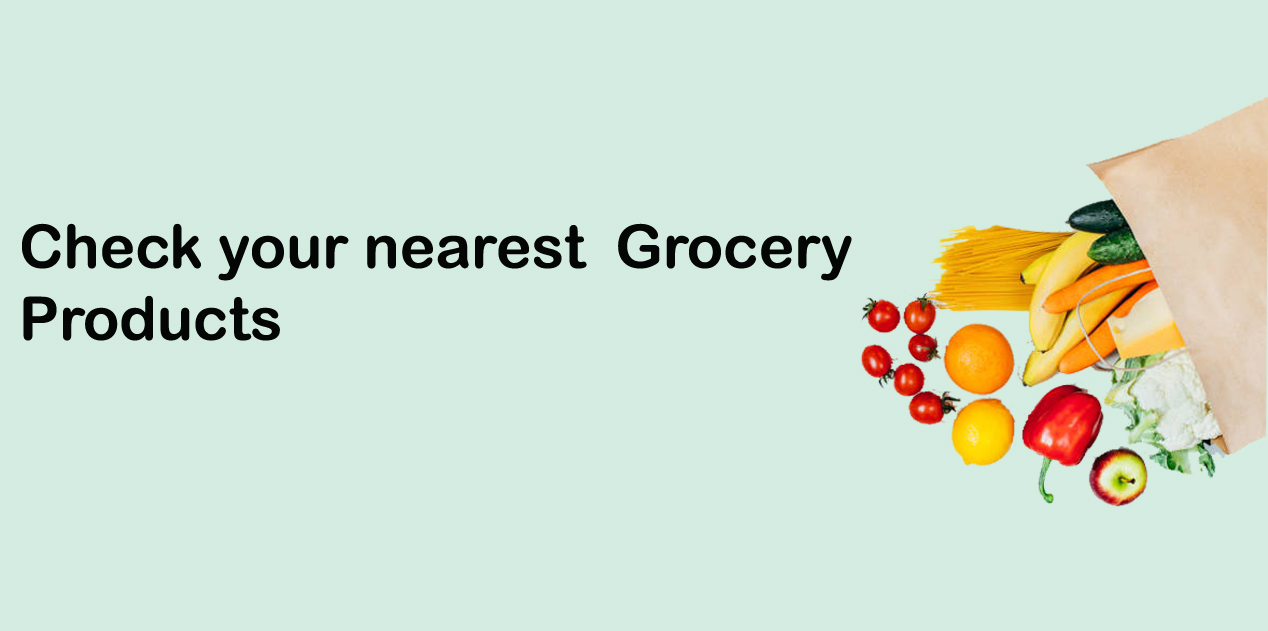
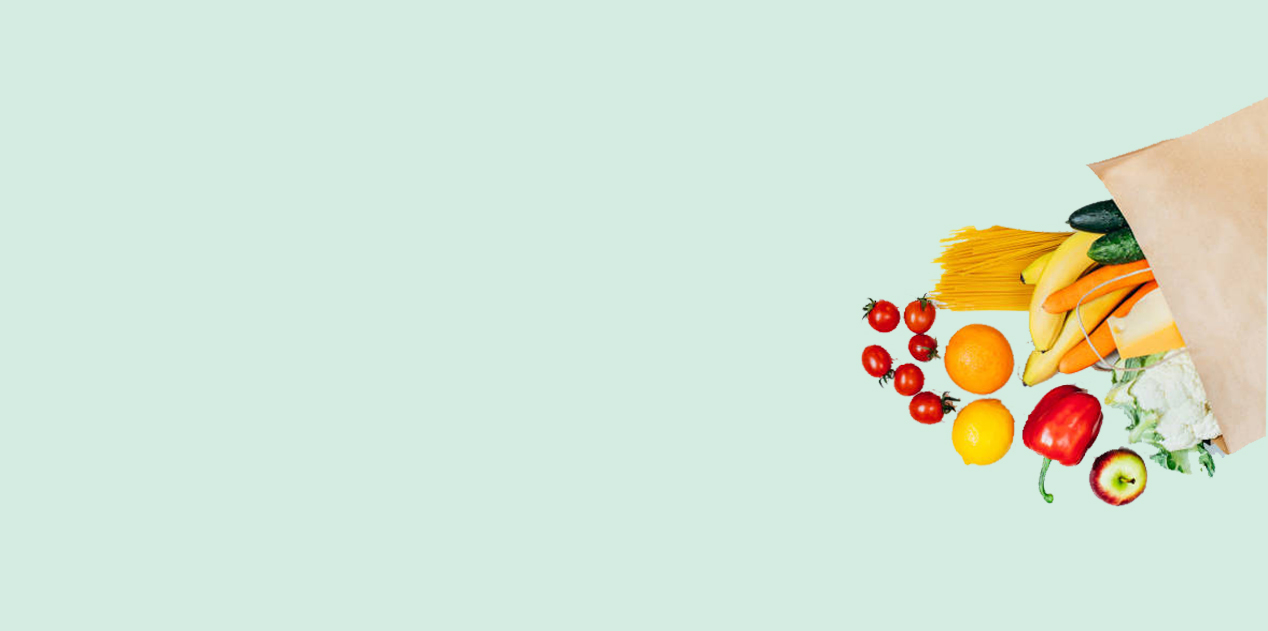
frontend : hero-layout comlete

Changed region(s): [[0.0, 0.3312, 0.6767, 0.4517], [0.0, 0.4517, 0.2461, 0.542]]

diff --git a/frontend/src/components/hero/hero.css b/frontend/src/components/hero/hero.css
@@ -1,0 +1,55 @@
+.hero-container{
+    margin-top: 1rem;
+    position: relative;
+}
+.hero-img-container{
+    position: relative;
+}
+.hero-img{
+    border-radius: 10px;
+    position: absolute;
+    z-index: -10;
+    width: 100%;
+    height:36rem;
+}
+
+.hero-img-content{
+    position: absolute;
+    z-index: -10;
+    top: 10rem;
+    left:5%;
+}
+
+.hero-img-content>h1{
+    width: 25rem;
+    font-size: 50px;
+}
+.hero-img-content-para{
+    width: 40rem;
+    font-size: 18px;
+    color: #726a6a;
+}
+.hero-img-content>button{
+    cursor: pointer;
+    background-color: #000000;
+    padding: 0.7rem 2rem;
+    border: none;
+    border-radius: 8px;
+    color: white;
+    margin-top: 3rem;
+    font-weight: 500;
+}
+
+.hero-img-content>button:hover{
+   
+    background-color: #917575;
+}
+.hero-discount{
+    background-color: #e7bc43;
+    color: rgb(46, 33, 33);
+    width: fit-content;
+    border-radius: 3px;
+    font-size: 12px;
+    font-weight: 600;
+
+}

diff --git a/frontend/src/components/hero/Hero.js b/frontend/src/components/hero/Hero.js
@@ -1,0 +1,28 @@
+import React from "react";
+import dairy from "../../assests/images/dairy.jpg";
+import "./hero.css";
+
+const Hero = () => {
+  return (
+    <div className="hero-container">
+      <div className="hero-img-container">
+        <img
+          className="hero-img"
+          src={dairy}
+          alt="grocery details, product details"
+        />
+        <div className="hero-img-content">
+          <p className="hero-discount">Opening Sale Discount 10%</p>
+          <h1>Dairy Shop For Fresh Milk</h1>
+          <p className="hero-img-content-para">
+            Introduced a new model for online Check for product availablity near
+            in your city for your convenient and less price ₹
+          </p>
+          <button>Shop Now</button>
+        </div>
+      </div>
+    </div>
+  );
+};
+
+export default Hero;

diff --git a/frontend/src/layouts/header/HeaderLayout.js b/frontend/src/layouts/header/HeaderLayout.js
@@ -1,0 +1,26 @@
+import React from "react";
+import Navbar from "../../components/navbar/Navbar.js";
+import AllDepartments from "../../components/all-departments/AllDepartments.js";
+import "./header.css"
+import SearchBox from "../../components/search/SearchBox.js";
+import Logo from "../../components/logo/Logo.tsx";
+import AuthLayout from "../../components/auth/AuthLayout.js";
+
+const HeaderLayout = () => {
+  return (
+    <div>
+      <div className="search-section">
+        <Logo/>
+        <SearchBox/>
+        <AuthLayout/>
+      </div>
+      <div className="nav-section">
+        <AllDepartments/>
+        <Navbar />
+      </div>
+      <hr></hr>
+    </div>
+  );
+};
+
+export default HeaderLayout;

diff --git a/frontend/src/components/error/PageNotFound.js b/frontend/src/components/error/PageNotFound.js
@@ -1,6 +1,6 @@
 import { Link } from "react-router-dom";
 import { MdOutlineSmsFailed } from "react-icons/md";
-import Header from "../../layouts/Header";
+import Header from "../../layouts/header/HeaderLayout";
 
 function PageNotFound() {
   return (
@@ -10,7 +10,7 @@ function PageNotFound() {
         <MdOutlineSmsFailed size={50} color="green" />
         <h3>404</h3>
         <h1>Page not found, </h1>
-        <p>Sorry,<strong> We are developing</strong> this page please visit after some time.</p>
+        <p>Sorry,<strong> I'am developing</strong> this page please visit after some time.</p>
         <div>
           <Link to="/">Go back home</Link>
         </div>

diff --git a/frontend/src/pages/HomePage/HomePage.js b/frontend/src/pages/HomePage/HomePage.js
@@ -1,10 +1,14 @@
 import React from 'react'
-import Header from '../../layouts/Header'
+import HeaderLayout from '../../layouts/header/HeaderLayout'
+import HeroLayout from '../../layouts/hero/HeroLayout'
+import PopularProductsLayout from '../../layouts/popular/PopularProductsLayout'
 
 const HomePage = () => {
   return (
     <div>
-      <Header></Header>
+      <HeaderLayout></HeaderLayout>
+      <HeroLayout></HeroLayout>
+      <PopularProductsLayout></PopularProductsLayout>
     </div>
   )
 }

diff --git a/frontend/src/components/logo/Logo.tsx b/frontend/src/components/logo/Logo.tsx
@@ -3,7 +3,7 @@ import web_log from "../../assests/images/logo.png"
 import "./logo.css"
 const Logo = () => {
   return (
-    <div className='log-container'><img src={web_log} alt="shopping in you city log" /><h2 className='logo-name'>ShopInYourCity</h2></div>
+    <div className='logo-container'><img className="logo-container-img" src={web_log} alt="shopping in you city log" /><h2 className='logo-name'>ShopInYourCity</h2></div>
   )
 }
 

diff --git a/frontend/src/layouts/popular/PopularProductsLayout.js b/frontend/src/layouts/popular/PopularProductsLayout.js
@@ -1,0 +1,12 @@
+import React from 'react'
+
+const PopularProductsLayout = () => {
+  return (
+    <div className='popular-product-layouts-section'>
+        
+      <h6 style={{color:'black',background:'yellow',textAlign:'center'}}>Currently i'm working on this project - Usman</h6> 
+        </div>
+  )
+}
+
+export default PopularProductsLayout

diff --git a/frontend/src/routes/routes.js b/frontend/src/routes/routes.js
@@ -1,6 +1,6 @@
 import { createBrowserRouter } from "react-router-dom";
 import HomePage from "../pages/HomePage/HomePage";
-import PageNotFound from "../components/404/PageNotFound";
+import PageNotFound from "../components/error/PageNotFound";
 
 export const router = createBrowserRouter([
   {

diff --git a/frontend/src/layouts/hero/HeroLayout.js b/frontend/src/layouts/hero/HeroLayout.js
@@ -1,0 +1,13 @@
+import React from 'react'
+import Hero from '../../components/hero/Hero'
+import "./herolayout.css"
+
+const HeroLayout = () => {
+  return (
+    <div className='hero-layouts-section'>
+      <Hero/>
+    </div>
+  )
+}
+
+export default HeroLayout

diff --git a/frontend/src/components/mega-menu/mega-menu.css b/frontend/src/components/mega-menu/mega-menu.css
@@ -4,9 +4,10 @@
     border-radius: 8px;
     width: 100%;
     box-shadow: 1px 1px 10px 1px #5a5858;
-    z-index: 10;
+     z-index: 10;
     background-color: white; 
 }
+
 .mega-menu-col-list{
     display: flex;
     flex-direction: column;

diff --git a/frontend/src/components/logo/logo.css b/frontend/src/components/logo/logo.css
@@ -1,9 +1,9 @@
-.log-container{
+.logo-container{
     display: flex;
     align-items: center;
     gap: 2px;
 }
-img{
+.logo-container-img{
     height: 2rem;
     width: 2rem;
 }

diff --git a/frontend/src/layouts/hero/herolayout.css b/frontend/src/layouts/hero/herolayout.css
@@ -1,0 +1,5 @@
+.hero-layouts-section{
+    max-width:1280px ;
+    margin: 10px auto;
+    position: relative;
+}
